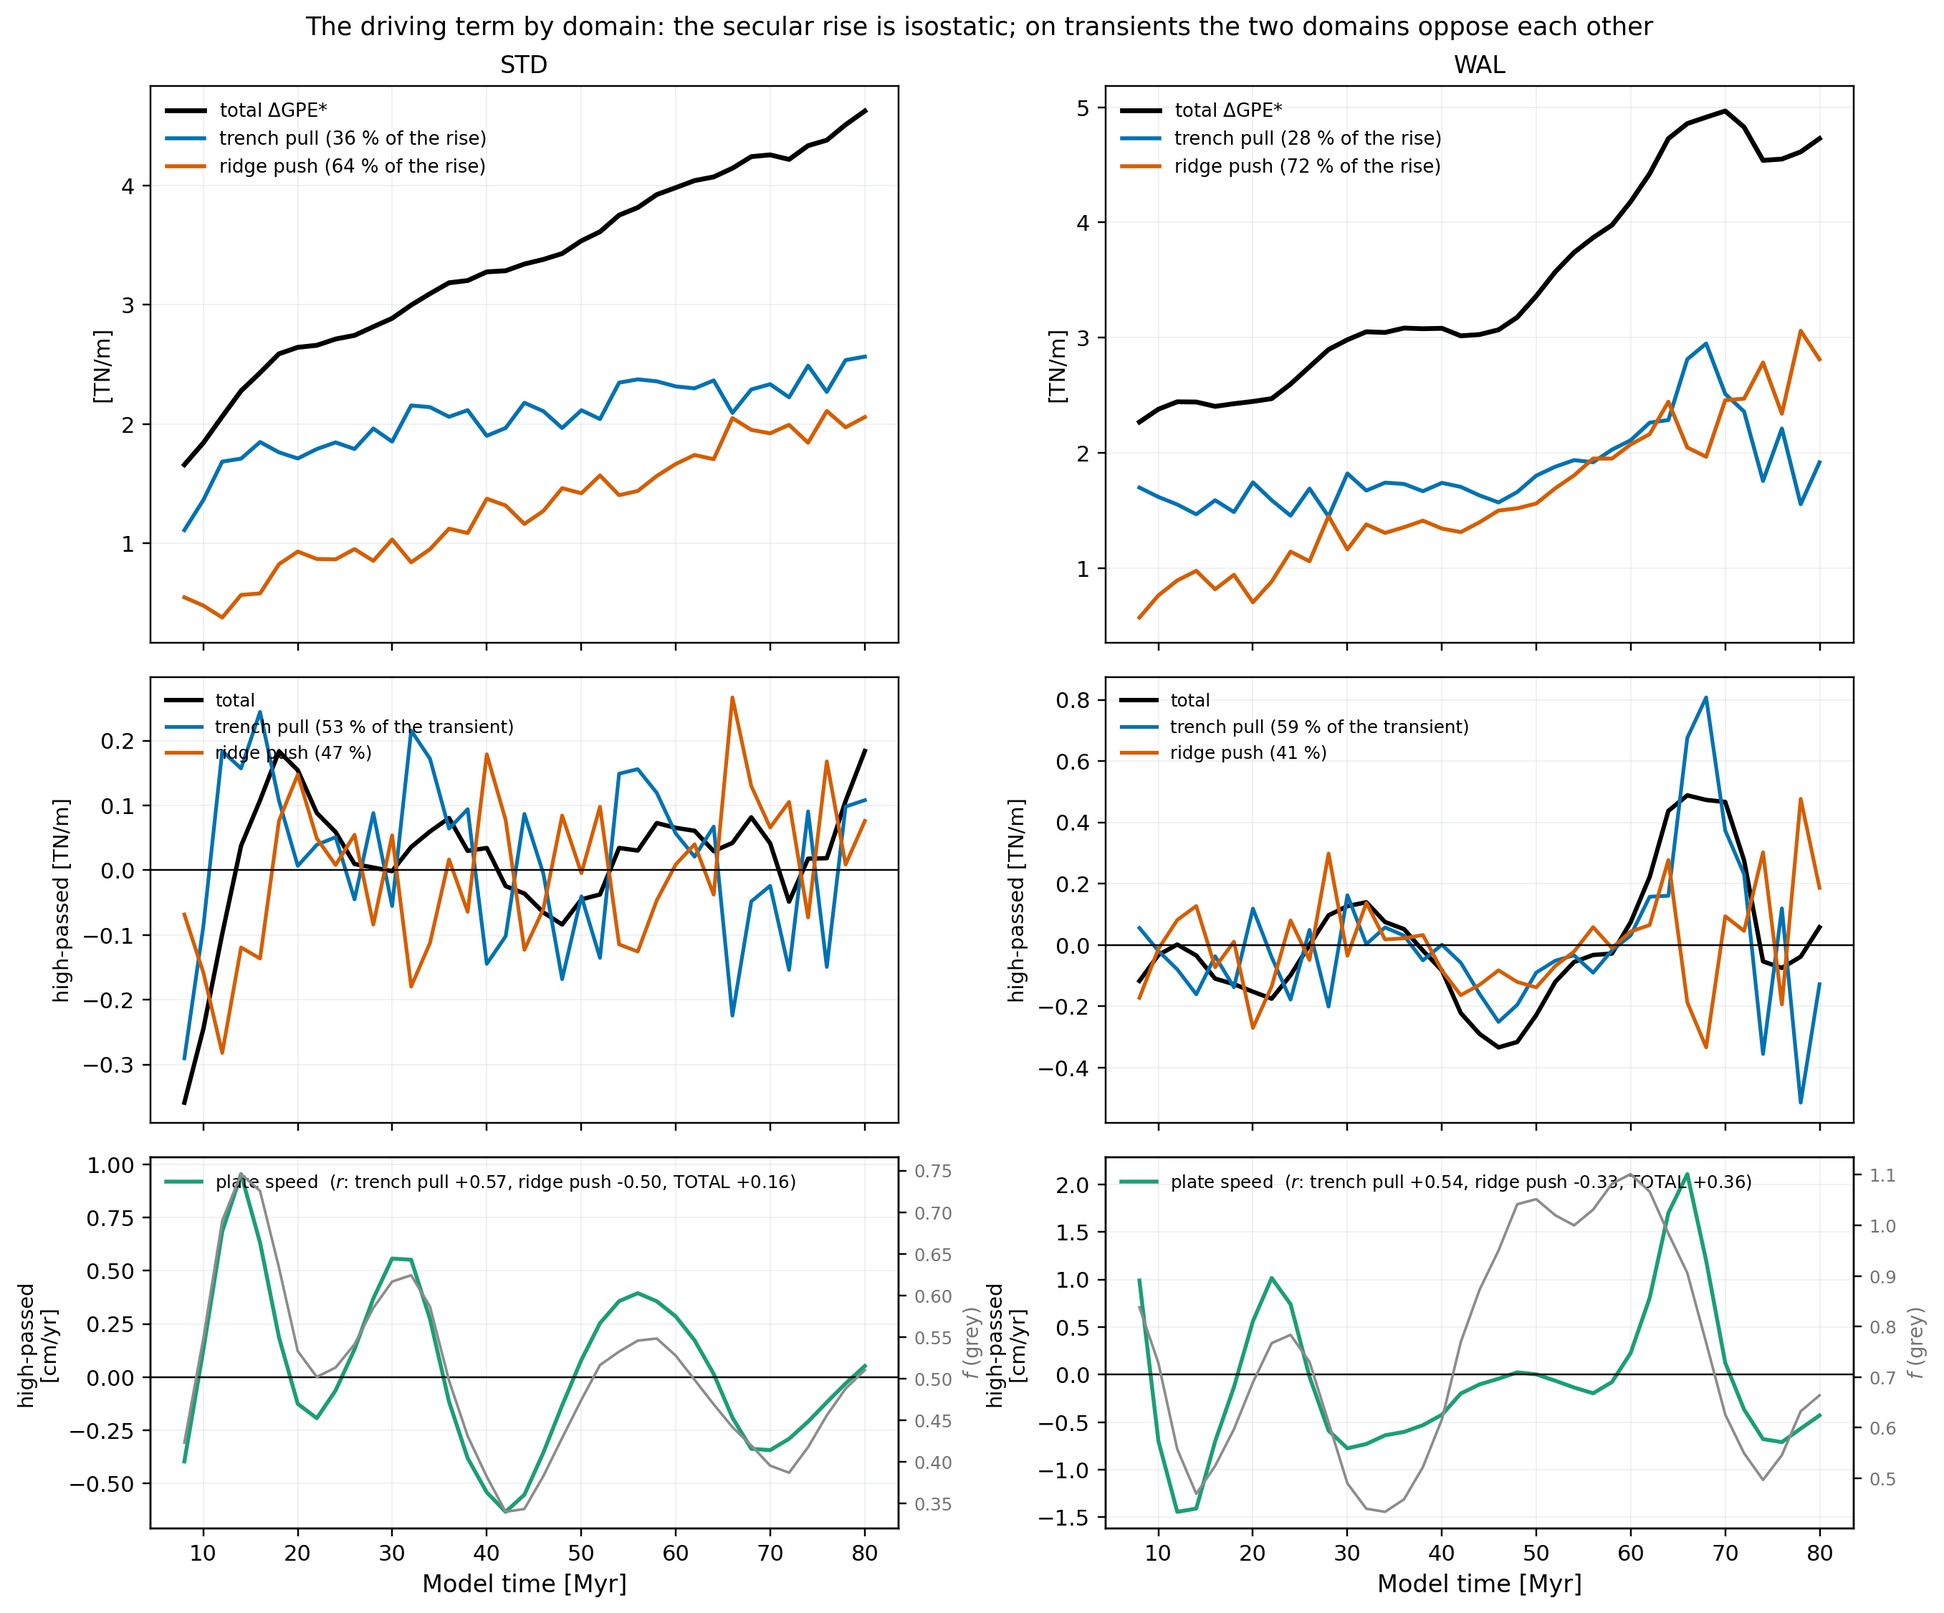
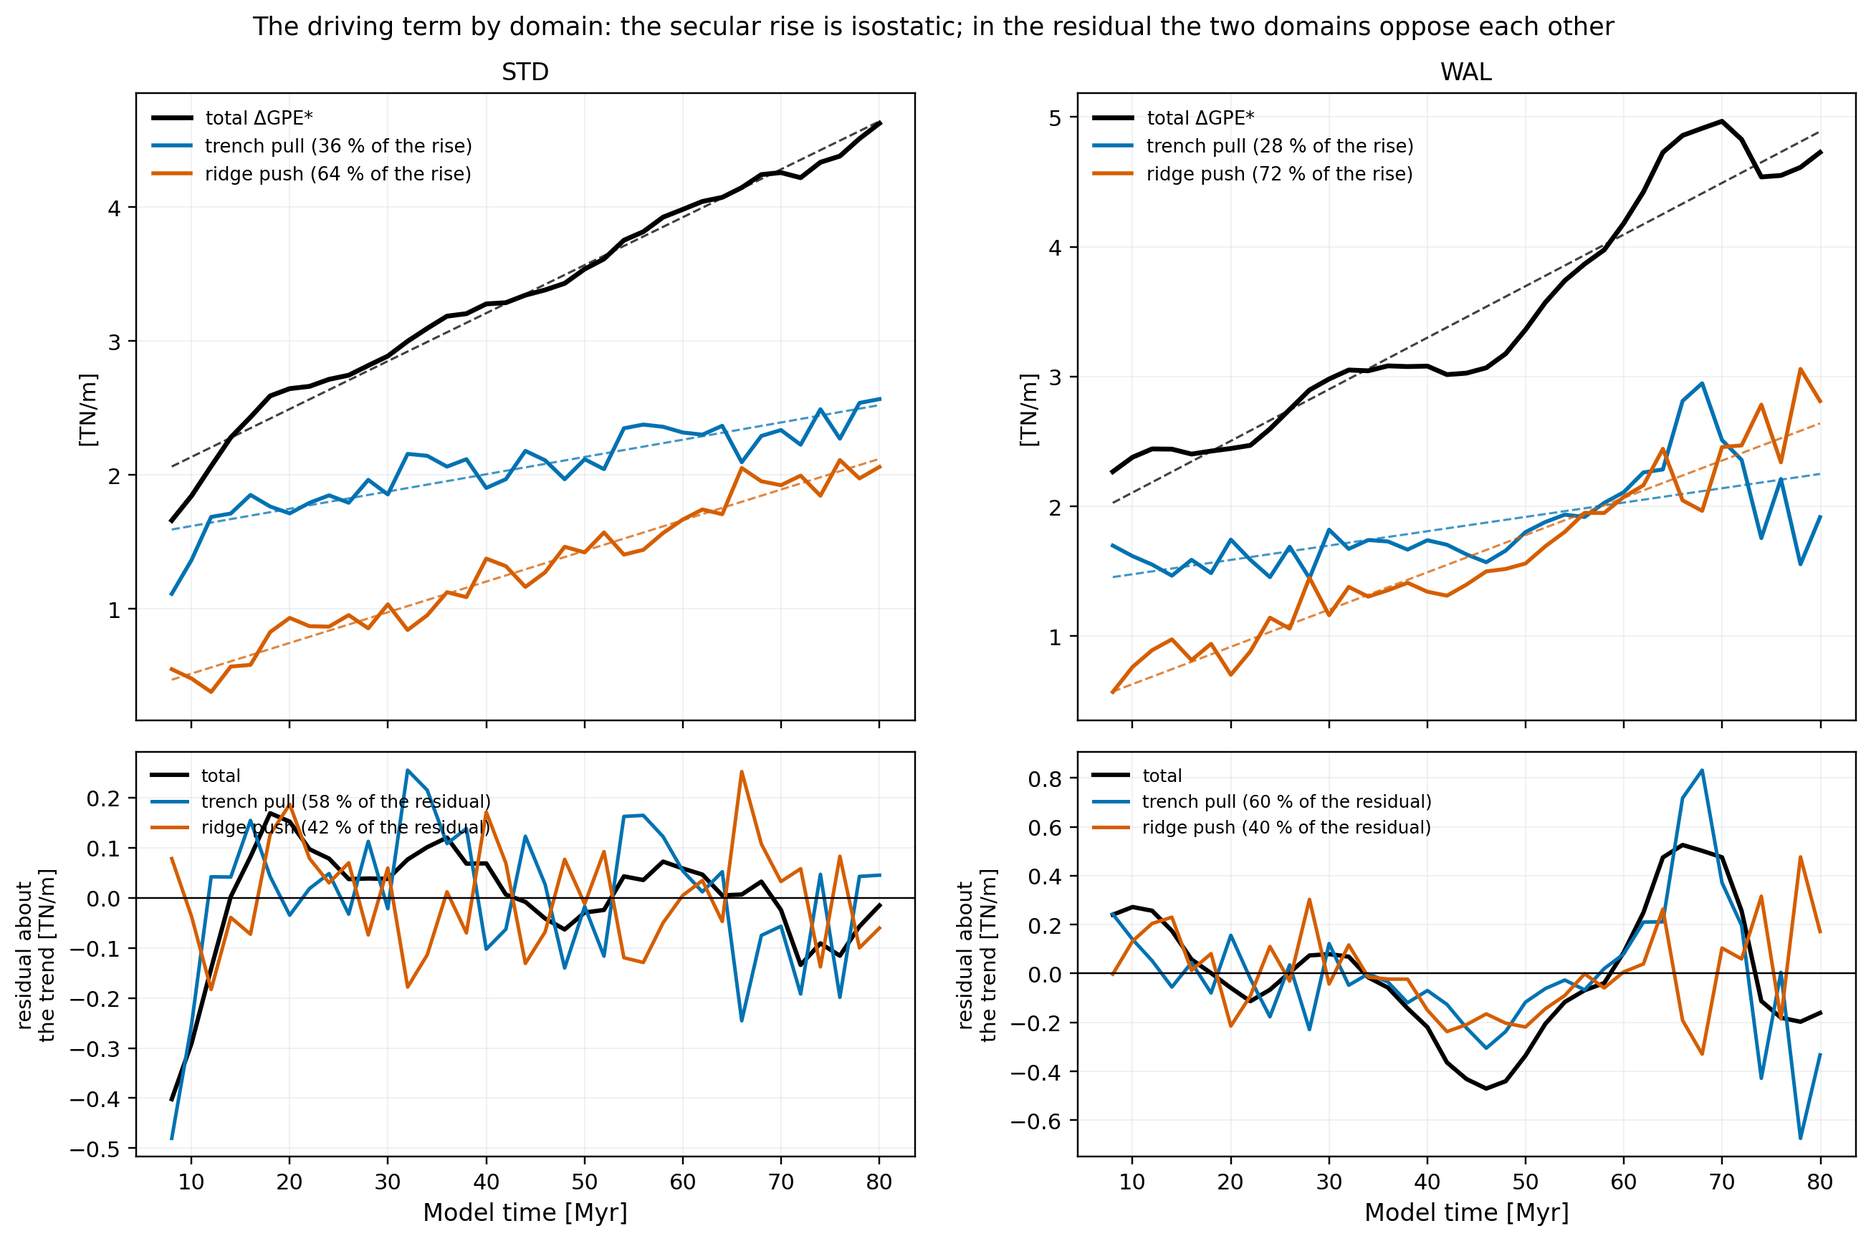
fig_gpe_decomposition: linear detrend, drop the velocity panels
Dan, 2026-09-22. Two changes.

DETRENDING is now a fitted linear model rather than a Gaussian high-pass.
Better here for four reasons: no free cutoff parameter (the filter's
24 Myr was defensible but tuned); the trend really is close to linear
where it matters (linear R2 = 0.96 STD / 0.92 WAL on ridge push, 0.98 /
0.92 on the total, with a quadratic buying 0-31 % more); the fitted trend
can be DRAWN, so the decomposition is visible in the figure rather than
asserted in the caption; and it preserves genuine multi-decadal structure
that the filter was attenuating -- notably the WAL 60-70 Myr excursion,
which is an event, not a trend, and now survives into the residual where
it belongs.

Where the linear fit is poor (WAL trench pull, R2 = 0.43) that is because
there is no real secular trend to remove -- flat, then a spike -- so a
straight line is the right null rather than a bad fit.

THE VELOCITY PANELS ARE GONE. The correlations they carried move to the
table and the caption.

⚠ Recorded in the docstring because it bears on how this gets written up:
the CONCLUSION is robust to the detrending choice but the HEADLINE NUMBER
is not. Under both treatments the domains oppose each other against the
plate speed -- trench pull positive, ridge push negative -- and the total
is less sensitive than either part. But the collapse is method-dependent:
high-passed the total falls to +0.16 (STD), linearly detrended only to
[…]

diff --git a/scripts/fig_gpe_decomposition.py b/scripts/fig_gpe_decomposition.py
@@ -1,4 +1,4 @@
-"""fig_gpe_decomposition — the driving term split by domain, secular vs transient.
+"""fig_gpe_decomposition — the driving term split by domain, trend and residual.
 
 Writes figures/fig_gpe_decomposition.png and
 tables/gpe_decomposition.csv from the committed column-profile cache.
@@ -9,67 +9,76 @@ the sum of the two additive domains of the schematic,
     Delta GPE* (trench -> ridge) = trench pull + ridge push
                                    (non-isostatic)  (isostatic)
 
-and the point of separating them is that THE TWO DOMAINS CARRY DIFFERENT
-TIMESCALES. Rows:
+and the point of separating them is that the two domains carry different
+timescales.
 
-  1  levels. The secular growth, and which domain supplies it.
-  2  the same three high-passed at ~24 Myr, between the oscillation
-     period (~20-25 Myr) and the run-length thermal trend. This is the
-     transient part, and it lives somewhere else.
-  3  the transient plate speed and the kinematic partition f, for
-     comparison against row 2 (see fig_convergence_partition).
+  top     levels, with the fitted secular trend of each shown dashed.
+  bottom  the residual about that trend.
 
-WHAT IT ESTABLISHES. The secular rise is a RIDGE-side phenomenon: the
-ridge push supplies 64 % (STD) / 72 % (WAL) of it, and what rise the
-trench pull does contribute is mostly its growing moment arm (h +34 %)
-rather than a deepening trench (+13 %). A thermal quantity cannot
-accelerate a plate whose feed rate is set elsewhere, so the growing drive
-is absorbed as in-plane resistance instead -- which is what the secular
-rise of Delta N_D is.
+DETRENDING: A FITTED LINEAR MODEL, NOT A FILTER (Dan, 2026-09-22). The
+first version used a Gaussian high-pass at ~24 Myr. A linear fit is
+better here for four reasons:
 
-The transient part is NOT simply trench-side -- the trench carries only
-53 % (STD) / 59 % (WAL) of it, which is barely more than half. What
-separates the domains on this timescale is the SIGN. Against the
-high-passed plate speed the trench pull correlates +0.57 / +0.54 while
-the ridge push correlates -0.50 / -0.33: a faster plate deepens the
-trench and simultaneously suppresses the ridge push through the tilt.
-The two therefore largely cancel: the TOTAL correlates with the plate
-speed at only +0.16 (STD) / +0.36 (WAL), against +-0.5 for either part
-alone. THAT COLLAPSE is the result, not a variance share -- the sd ratio
-understates it (the total's transient sd is only 21 % / 13 % below the
-larger part), because the cancellation is in the phase, not the
-amplitude.
+  1. It has no free cutoff. The filter's 24 Myr was chosen to sit between
+     the oscillation and the run length, which is defensible but is still
+     a tuned parameter a reader has to accept.
+  2. The trend really is close to linear where it matters: the fit gives
+     R2 = 0.96 (STD) / 0.92 (WAL) on ridge push and 0.98 / 0.92 on the
+     total, and a quadratic buys 0-31 % more.
+  3. The trend can be DRAWN. The decomposition becomes visible in the
+     figure instead of asserted in the caption.
+  4. It keeps genuine multi-decadal structure that the filter attenuated
+     -- notably the WAL 60-70 Myr excursion, which is an event, not a
+     trend, and should survive detrending rather than be smoothed away.
 
-WHY HIGH-PASS AND NOT DIFFERENCING. Measured against the plate speed,
-first differencing -- which is what the earlier increment correlations
-used -- is the WEAKEST of the detrending options, because it
-over-amplifies the highest frequencies. On the trench-side loading it
-gives r = +0.36 against +0.57 for a high-pass; on trench depth, +0.57
-against +0.76. Regressing out the non-tilting term fails outright (+0.06)
-because that term and the moment arm are collinear, both being thermal,
-so it removes the signal with the trend. The filter uses mode='nearest':
-reflect padding distorts a strongly trending series at the endpoints.
+Where the linear fit is poor (WAL trench pull, R2 = 0.43) that is because
+there is no real secular trend to remove -- the series is flat and then
+spikes -- so a straight line is the right null, not a bad fit.
+
+⚠ THE CONCLUSION IS ROBUST TO THE CHOICE, THE HEADLINE NUMBER IS NOT.
+Under both treatments the two domains oppose each other against the
+plate speed, trench pull positive and ridge push negative, and the total
+is less sensitive than either part. But how MUCH less depends on the
+method: high-passed, the total collapses to +0.16 (STD); linearly
+detrended it only falls to +0.31. Quote the sign structure, not the
+collapse factor, unless the timescale is stated with it.
+
+  r(plate speed, X), linear-detrended [high-passed in brackets]:
+      trench pull   STD +0.52 [+0.57]   WAL +0.63 [+0.54]
+      ridge push    STD -0.39 [-0.50]   WAL -0.23 [-0.33]
+      total         STD +0.31 [+0.16]   WAL +0.50 [+0.36]
+
+WHAT IT ESTABLISHES. The secular rise is isostatic: ridge push supplies
+64 % (STD) / 72 % (WAL) of it, and what the trench pull contributes is
+mostly its growing moment arm (h +34 %) rather than a deepening trench
+(+13 %). A thermal quantity cannot accelerate a plate whose feed rate is
+set elsewhere, so the growing drive is absorbed as in-plane resistance --
+which is what the secular rise of Delta N_D is.
+
+The residual is where the two domains part company: a faster plate
+deepens the trench and simultaneously suppresses the ridge push through
+the tilt, so they act in opposition and partly cancel in the total.
+
+The plate-speed series is NOT plotted (Dan, 2026-09-22) -- the velocity
+correlations above are carried in the table and the caption instead. For
+the kinematics see fig_convergence_partition.
 
 DRAFT CAPTION. The plate-wide driving term separated into its two
 domains, for STD (left) and WAL (right). Top: the trench pull across the
 non-isostatic domain (blue), the ridge push across the isostatic domain
-(orange), and their sum (black). Middle: the same three high-pass
-filtered at 24 Myr to isolate variability faster than the thermal trend.
-Bottom: the high-passed plate speed and the fraction of the convergence
-carried by plate motion. The secular growth of the driving term is
-supplied mainly by the isostatic domain. On the transient timescale the
-two domains respond to changes in plate speed with opposite sign — the
-trench pull rising as the trench deepens, the ridge push falling as the
-tilt grows — so they largely cancel: the total correlates with the plate
-speed at only +0.16 (STD) and +0.36 (WAL), against ±0.5 for either part
-on its own.
+(orange), and their sum (black), each with its fitted secular trend
+(dashed). Bottom: the residual about those trends. The secular growth is
+supplied mainly by the isostatic domain. In the residual the two domains
+respond to changes in plate speed with opposite sign -- the trench pull
+rising as the trench deepens, the ridge push falling as the tilt grows --
+so they partly cancel and the total is left less sensitive to plate speed
+than either of its parts.
 """
 import os, sys
 import numpy as np
 import matplotlib
 matplotlib.use('Agg')
 import matplotlib.pyplot as plt
-from scipy.ndimage import gaussian_filter1d
 
 sys.path.insert(0, os.path.dirname(os.path.abspath(__file__)))
 import column_profiles_cache as cpc
@@ -79,22 +88,21 @@ ROOT = os.path.dirname(os.path.dirname(os.path.abspath(__file__)))
 C_TRENCH = '#0072B2'        # non-isostatic / trench pull domain
 C_RIDGE = '#D55E00'         # isostatic / ridge push domain
 C_TOTAL = 'k'
-C_PLATE = '#1B9E77'         # plate motion (fig_convergence_partition)
 C_RULE = '#BFC3D1'
-HP_SIGMA = 6                # samples; 2 Myr cadence -> ~24 Myr cutoff
 
 
-def hp(y):
-    """High-pass. mode='nearest' -- reflect padding wrecks a trending series."""
-    return y - gaussian_filter1d(y, HP_SIGMA, mode='nearest')
+def detrend(t, y):
+    """Fitted linear secular model, and the residual about it."""
+    trend = np.polyval(np.polyfit(t, y, 1), t)
+    return trend, y - trend
 
 
 def main():
     if not hasattr(np, 'trapezoid'):
         np.trapezoid = np.trapz
     d = cpc.load()
-    fig, axes = plt.subplots(3, 2, figsize=(12.4, 10.4), sharex=True,
-                             gridspec_kw={'height_ratios': [1.5, 1.2, 1.0]})
+    fig, axes = plt.subplots(2, 2, figsize=(12.0, 8.0), sharex=True,
+                             gridspec_kw={'height_ratios': [1.55, 1.0]})
     rows = [('model', 'quantity', 'value')]
 
     for col, key in enumerate(('STD', 'WAL')):
@@ -104,76 +112,69 @@ def main():
         RP = np.trapezoid(c['p_R'][:, zc], z[zc], axis=1) / 1e12
         TOT = TP + RP
         vp = np.abs(d[f'{key}_vx_TR'][:, zkm < 20].mean(axis=1))
-        vt = np.gradient(d[f'{key}_xT'] / 1e3, t) / 10.0
-        f = vp / (vp + vt)
+        _, rv = detrend(t, vp)
 
-        rise = lambda y: np.polyfit(t, y, 1)[0] * (t[-1] - t[0])
-        share = 100 * rise(RP) / (rise(TP) + rise(RP))
-        hTP, hRP, hTOT = hp(TP), hp(RP), hp(TOT)
-        tshare = 100 * hTP.std() / (hTP.std() + hRP.std())
+        span = t[-1] - t[0]
+        parts = {}
+        for nm, y in (('trench_pull', TP), ('ridge_push', RP), ('total', TOT)):
+            tr, res = detrend(t, y)
+            parts[nm] = dict(y=y, trend=tr, res=res,
+                             rise=np.polyfit(t, y, 1)[0] * span,
+                             r2=1 - res.var() / y.var(),
+                             rv=float(np.corrcoef(rv, res)[0, 1]))
+        share = 100 * parts['ridge_push']['rise'] / (parts['trench_pull']['rise']
+                                                     + parts['ridge_push']['rise'])
+        tsd = parts['trench_pull']['res'].std() + parts['ridge_push']['res'].std()
+        tshare = 100 * parts['trench_pull']['res'].std() / tsd
 
-        a0, a1, a2 = (axes[r, col] for r in range(3))
-        for arr, c_, lw, nm in ((TOT, C_TOTAL, 2.2, 'total $\\Delta$GPE*'),
-                                (TP, C_TRENCH, 1.8,
-                                 f'trench pull ({100-share:.0f} % of the rise)'),
-                                (RP, C_RIDGE, 1.8,
-                                 f'ridge push ({share:.0f} % of the rise)')):
-            a0.plot(t, arr, '-', color=c_, lw=lw, label=nm)
+        a0, a1 = axes[0, col], axes[1, col]
+        style = (('total', C_TOTAL, 2.2, f'total $\\Delta$GPE*'),
+                 ('trench_pull', C_TRENCH, 1.8,
+                  f'trench pull ({100 - share:.0f} % of the rise)'),
+                 ('ridge_push', C_RIDGE, 1.8,
+                  f'ridge push ({share:.0f} % of the rise)'))
+        for nm, c_, lw, lab in style:
+            p = parts[nm]
+            a0.plot(t, p['y'], '-', color=c_, lw=lw, label=lab)
+            a0.plot(t, p['trend'], '--', color=c_, lw=1.0, alpha=0.75)
         a0.set_title(key, fontsize=11)
         a0.set_ylabel('[TN/m]', fontsize=10)
         a0.legend(frameon=False, fontsize=8.5, loc='upper left')
 
-        for arr, c_, lw, nm in ((hTOT, C_TOTAL, 2.0, 'total'),
-                                (hTP, C_TRENCH, 1.7,
-                                 f'trench pull ({tshare:.0f} % of the transient)'),
-                                (hRP, C_RIDGE, 1.7,
-                                 f'ridge push ({100-tshare:.0f} %)')):
-            a1.plot(t, arr, '-', color=c_, lw=lw, label=nm)
+        for nm, c_, lw, _ in style:
+            p = parts[nm]
+            lab = ('total' if nm == 'total' else
+                   f'{nm.replace("_", " ")} '
+                   f'({tshare if nm == "trench_pull" else 100 - tshare:.0f} % '
+                   'of the residual)')
+            a1.plot(t, p['res'], '-', color=c_, lw=lw * 0.9, label=lab)
         a1.axhline(0, color='k', lw=0.8)
-        a1.set_ylabel('high-passed [TN/m]', fontsize=9.5)
-        a1.legend(frameon=False, fontsize=8, loc='upper left', ncol=1)
-
-        rv_tp = float(np.corrcoef(hp(vp), hTP)[0, 1])
-        rv_rp = float(np.corrcoef(hp(vp), hRP)[0, 1])
-        rv_tot = float(np.corrcoef(hp(vp), hTOT)[0, 1])
-        # the cancellation: the total varies less than its larger part
-        cancel = 100 * (1 - hTOT.std() / max(hTP.std(), hRP.std()))
-        a2.plot(t, hp(vp), '-', color=C_PLATE, lw=1.8,
-                label=f'plate speed  ($r$: trench pull {rv_tp:+.2f}, ridge push '
-                      f'{rv_rp:+.2f}, TOTAL {rv_tot:+.2f})')
-        a2.axhline(0, color='k', lw=0.8)
-        a2.set_ylabel('high-passed\n[cm/yr]', fontsize=9.5)
-        a2.set_xlabel('Model time [Myr]', fontsize=11)
-        a2.legend(frameon=False, fontsize=8, loc='upper left')
-        a2b = a2.twinx()
-        a2b.plot(t, f, '-', color='0.55', lw=1.2)
-        a2b.set_ylabel('$f$ (grey)', fontsize=9, color='0.45')
-        a2b.tick_params(axis='y', labelcolor='0.45', labelsize=8)
-
-        for ax in (a0, a1, a2):
+        a1.set_ylabel('residual about\nthe trend [TN/m]', fontsize=9.5)
+        a1.set_xlabel('Model time [Myr]', fontsize=11)
+        a1.legend(frameon=False, fontsize=8, loc='upper left')
+        for ax in (a0, a1):
             ax.grid(alpha=0.25, color=C_RULE, lw=0.6)
 
-        print(f'{key}: secular rise TP {rise(TP):+.2f}, RP {rise(RP):+.2f} TN/m '
-              f'(ridge {share:.0f} %); transient sd TP {hTP.std():.3f}, '
-              f'RP {hRP.std():.3f} (trench {tshare:.0f} %); '
-              f'r(hp speed, hp TP) {rv_tp:+.2f}, RP {rv_rp:+.2f}, '
-              f'TOTAL {rv_tot:+.2f}; total transient sd {hTOT.std():.3f} '
-              f'-> cancellation {cancel:.0f} %')
-        rows += [(key, 'secular_rise_trench_pull_TNm', f'{rise(TP):.3f}'),
-                 (key, 'secular_rise_ridge_push_TNm', f'{rise(RP):.3f}'),
-                 (key, 'ridge_share_of_secular_rise_percent', f'{share:.1f}'),
-                 (key, 'transient_sd_trench_pull_TNm', f'{hTP.std():.4f}'),
-                 (key, 'transient_sd_ridge_push_TNm', f'{hRP.std():.4f}'),
-                 (key, 'trench_share_of_transient_percent', f'{tshare:.1f}'),
-                 (key, 'corr_hp_speed_hp_trench_pull', f'{rv_tp:.3f}'),
-                 (key, 'corr_hp_speed_hp_ridge_push', f'{rv_rp:.3f}'),
-                 (key, 'corr_hp_speed_hp_total', f'{rv_tot:.3f}'),
-                 (key, 'transient_sd_total_TNm', f'{hTOT.std():.4f}'),
-                 (key, 'cancellation_percent', f'{cancel:.1f}'),
-                 (key, 'highpass_cutoff_Myr', f'{2*HP_SIGMA*2:.0f}')]
+        print(f'{key}: rise TP {parts["trench_pull"]["rise"]:+.2f} '
+              f'(R2 {parts["trench_pull"]["r2"]:.2f}), '
+              f'RP {parts["ridge_push"]["rise"]:+.2f} '
+              f'(R2 {parts["ridge_push"]["r2"]:.2f}) TN/m, ridge {share:.0f} %; '
+              f'residual sd TP {parts["trench_pull"]["res"].std():.3f}, '
+              f'RP {parts["ridge_push"]["res"].std():.3f}, '
+              f'TOT {parts["total"]["res"].std():.3f}; '
+              f'r with detrended speed: TP {parts["trench_pull"]["rv"]:+.2f}, '
+              f'RP {parts["ridge_push"]["rv"]:+.2f}, '
+              f'TOT {parts["total"]["rv"]:+.2f}')
+        for nm, p in parts.items():
+            rows += [(key, f'secular_rise_{nm}_TNm', f'{p["rise"]:.3f}'),
+                     (key, f'linear_fit_r2_{nm}', f'{p["r2"]:.3f}'),
+                     (key, f'residual_sd_{nm}_TNm', f'{p["res"].std():.4f}'),
+                     (key, f'corr_detrended_speed_{nm}', f'{p["rv"]:.3f}')]
+        rows += [(key, 'ridge_share_of_secular_rise_percent', f'{share:.1f}'),
+                 (key, 'trench_share_of_residual_percent', f'{tshare:.1f}')]
 
     fig.suptitle('The driving term by domain: the secular rise is isostatic; '
-                 'on transients the two domains oppose each other', fontsize=11.5)
+                 'in the residual the two domains oppose each other', fontsize=11.5)
     fig.tight_layout()
     out = os.path.join(ROOT, 'figures', 'fig_gpe_decomposition.png')
     fig.savefig(out, bbox_inches='tight', dpi=220)
@@ -183,8 +184,8 @@ def main():
                       figure='fig_gpe_decomposition.png', models=('STD', 'WAL'),
                       meta={'zc_km': cpc.ZC_KM,
                             'total': 'trench pull + ridge push, both over 0..z_c',
-                            'highpass': f'Gaussian sigma {HP_SIGMA} samples '
-                                        '(mode=nearest), ~24 Myr cutoff'})
+                            'detrend': 'fitted linear model, removed; residual '
+                                       'retains all curvature and events'})
     print('written:', tab)
 
 
